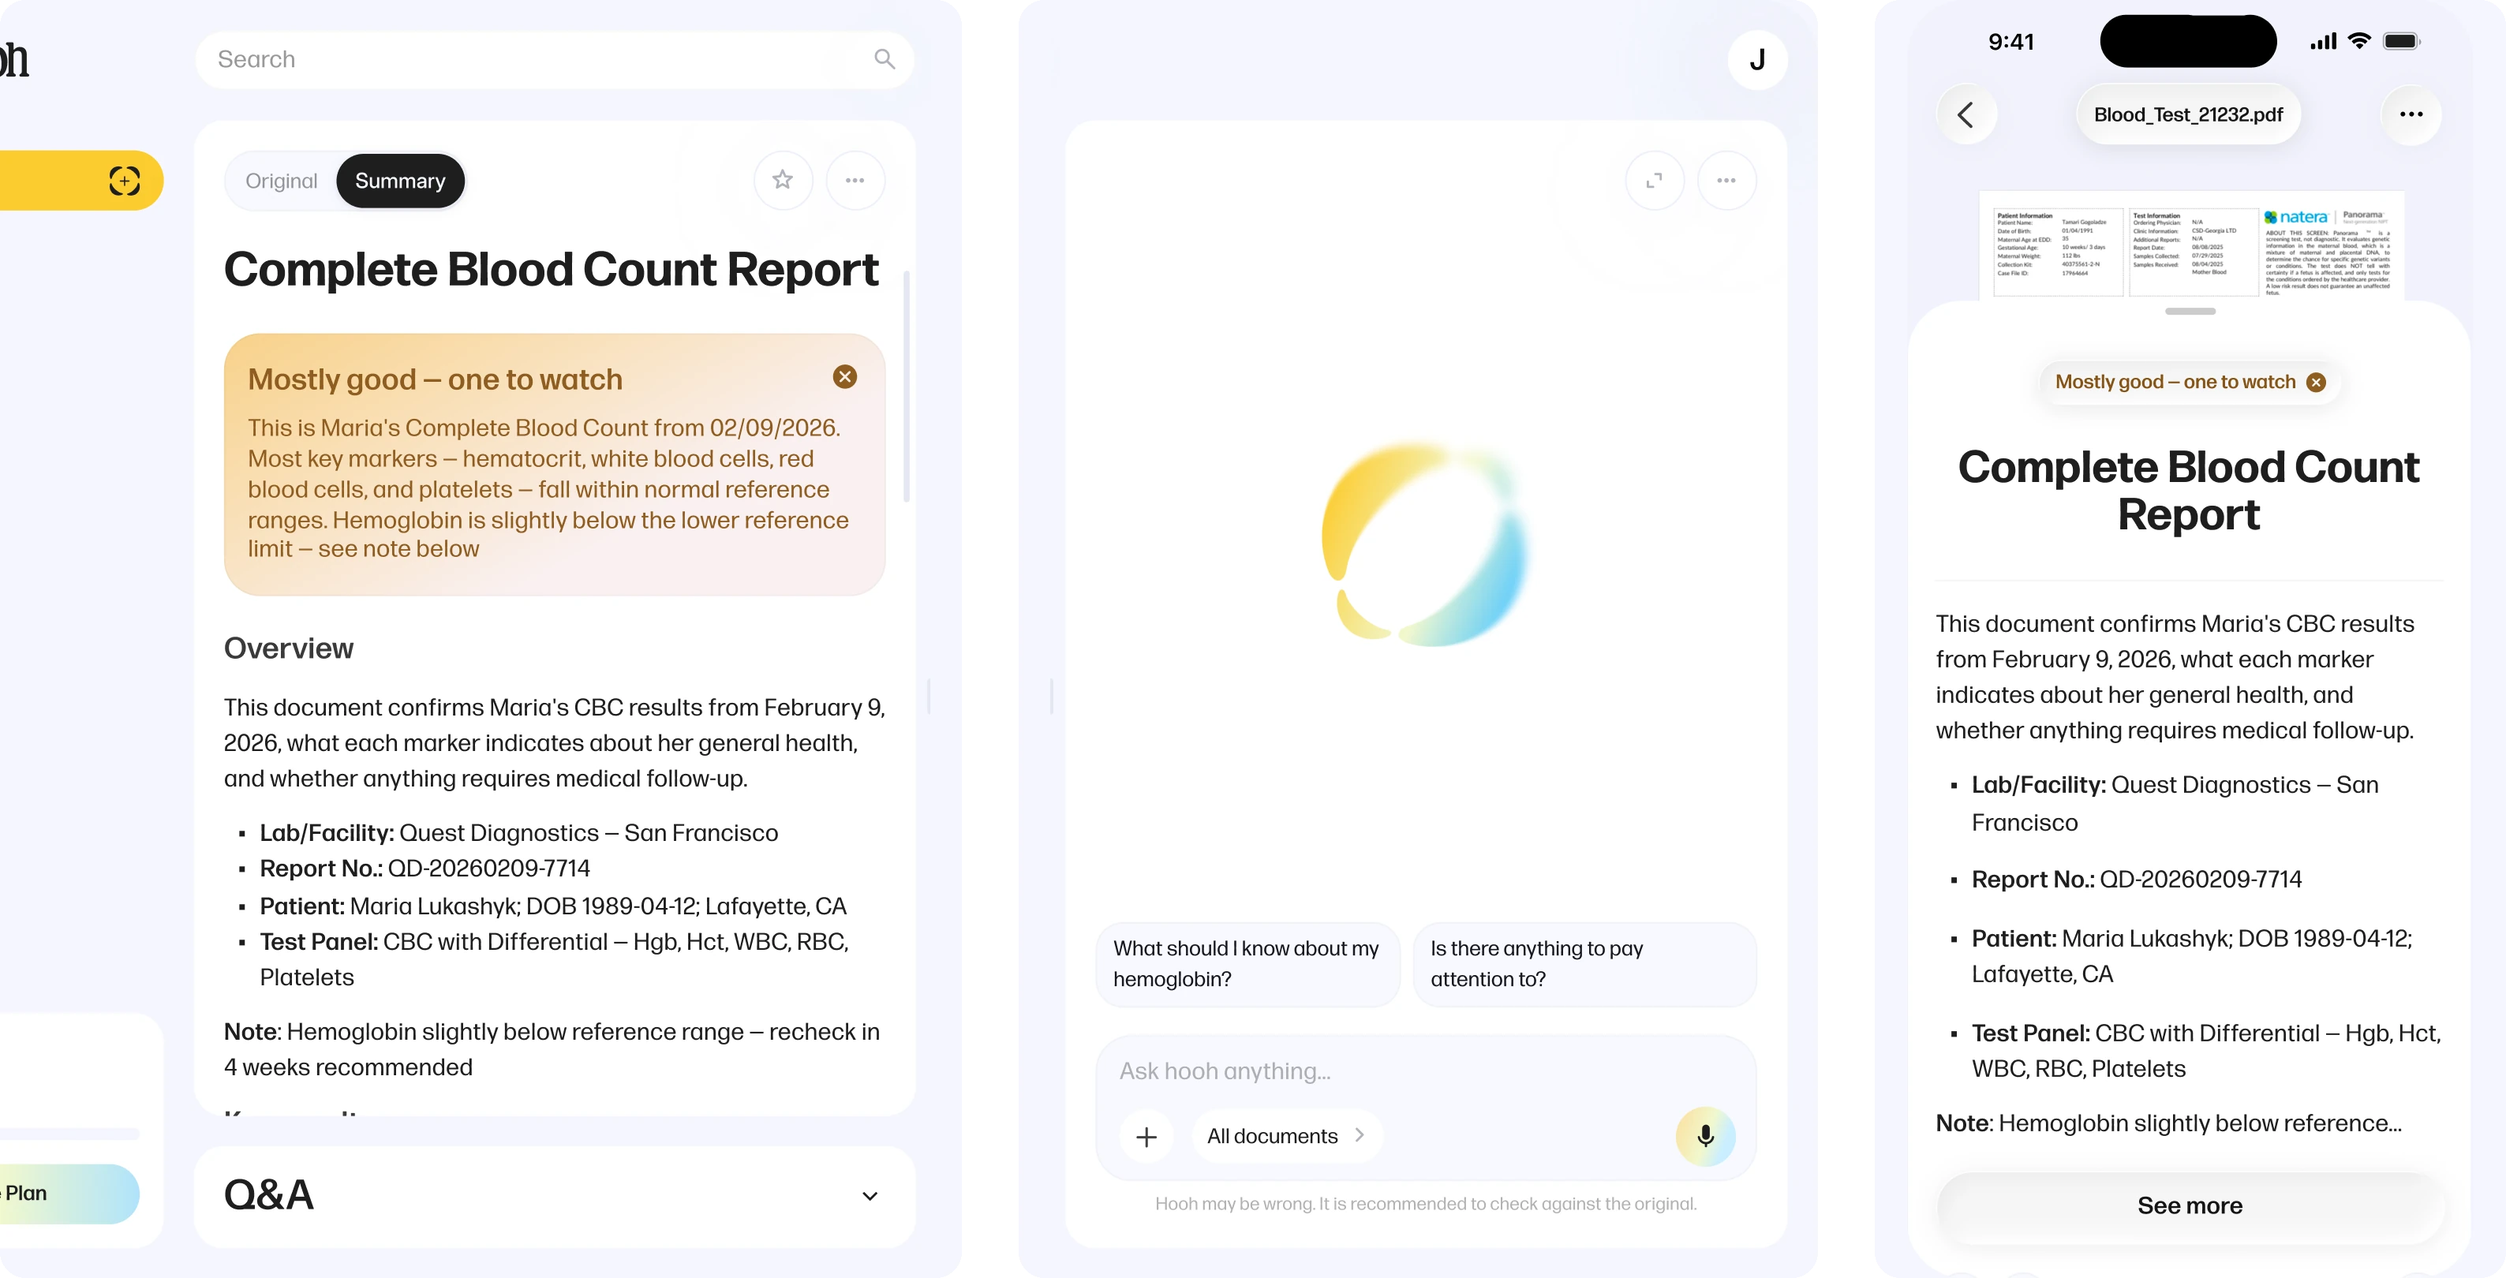
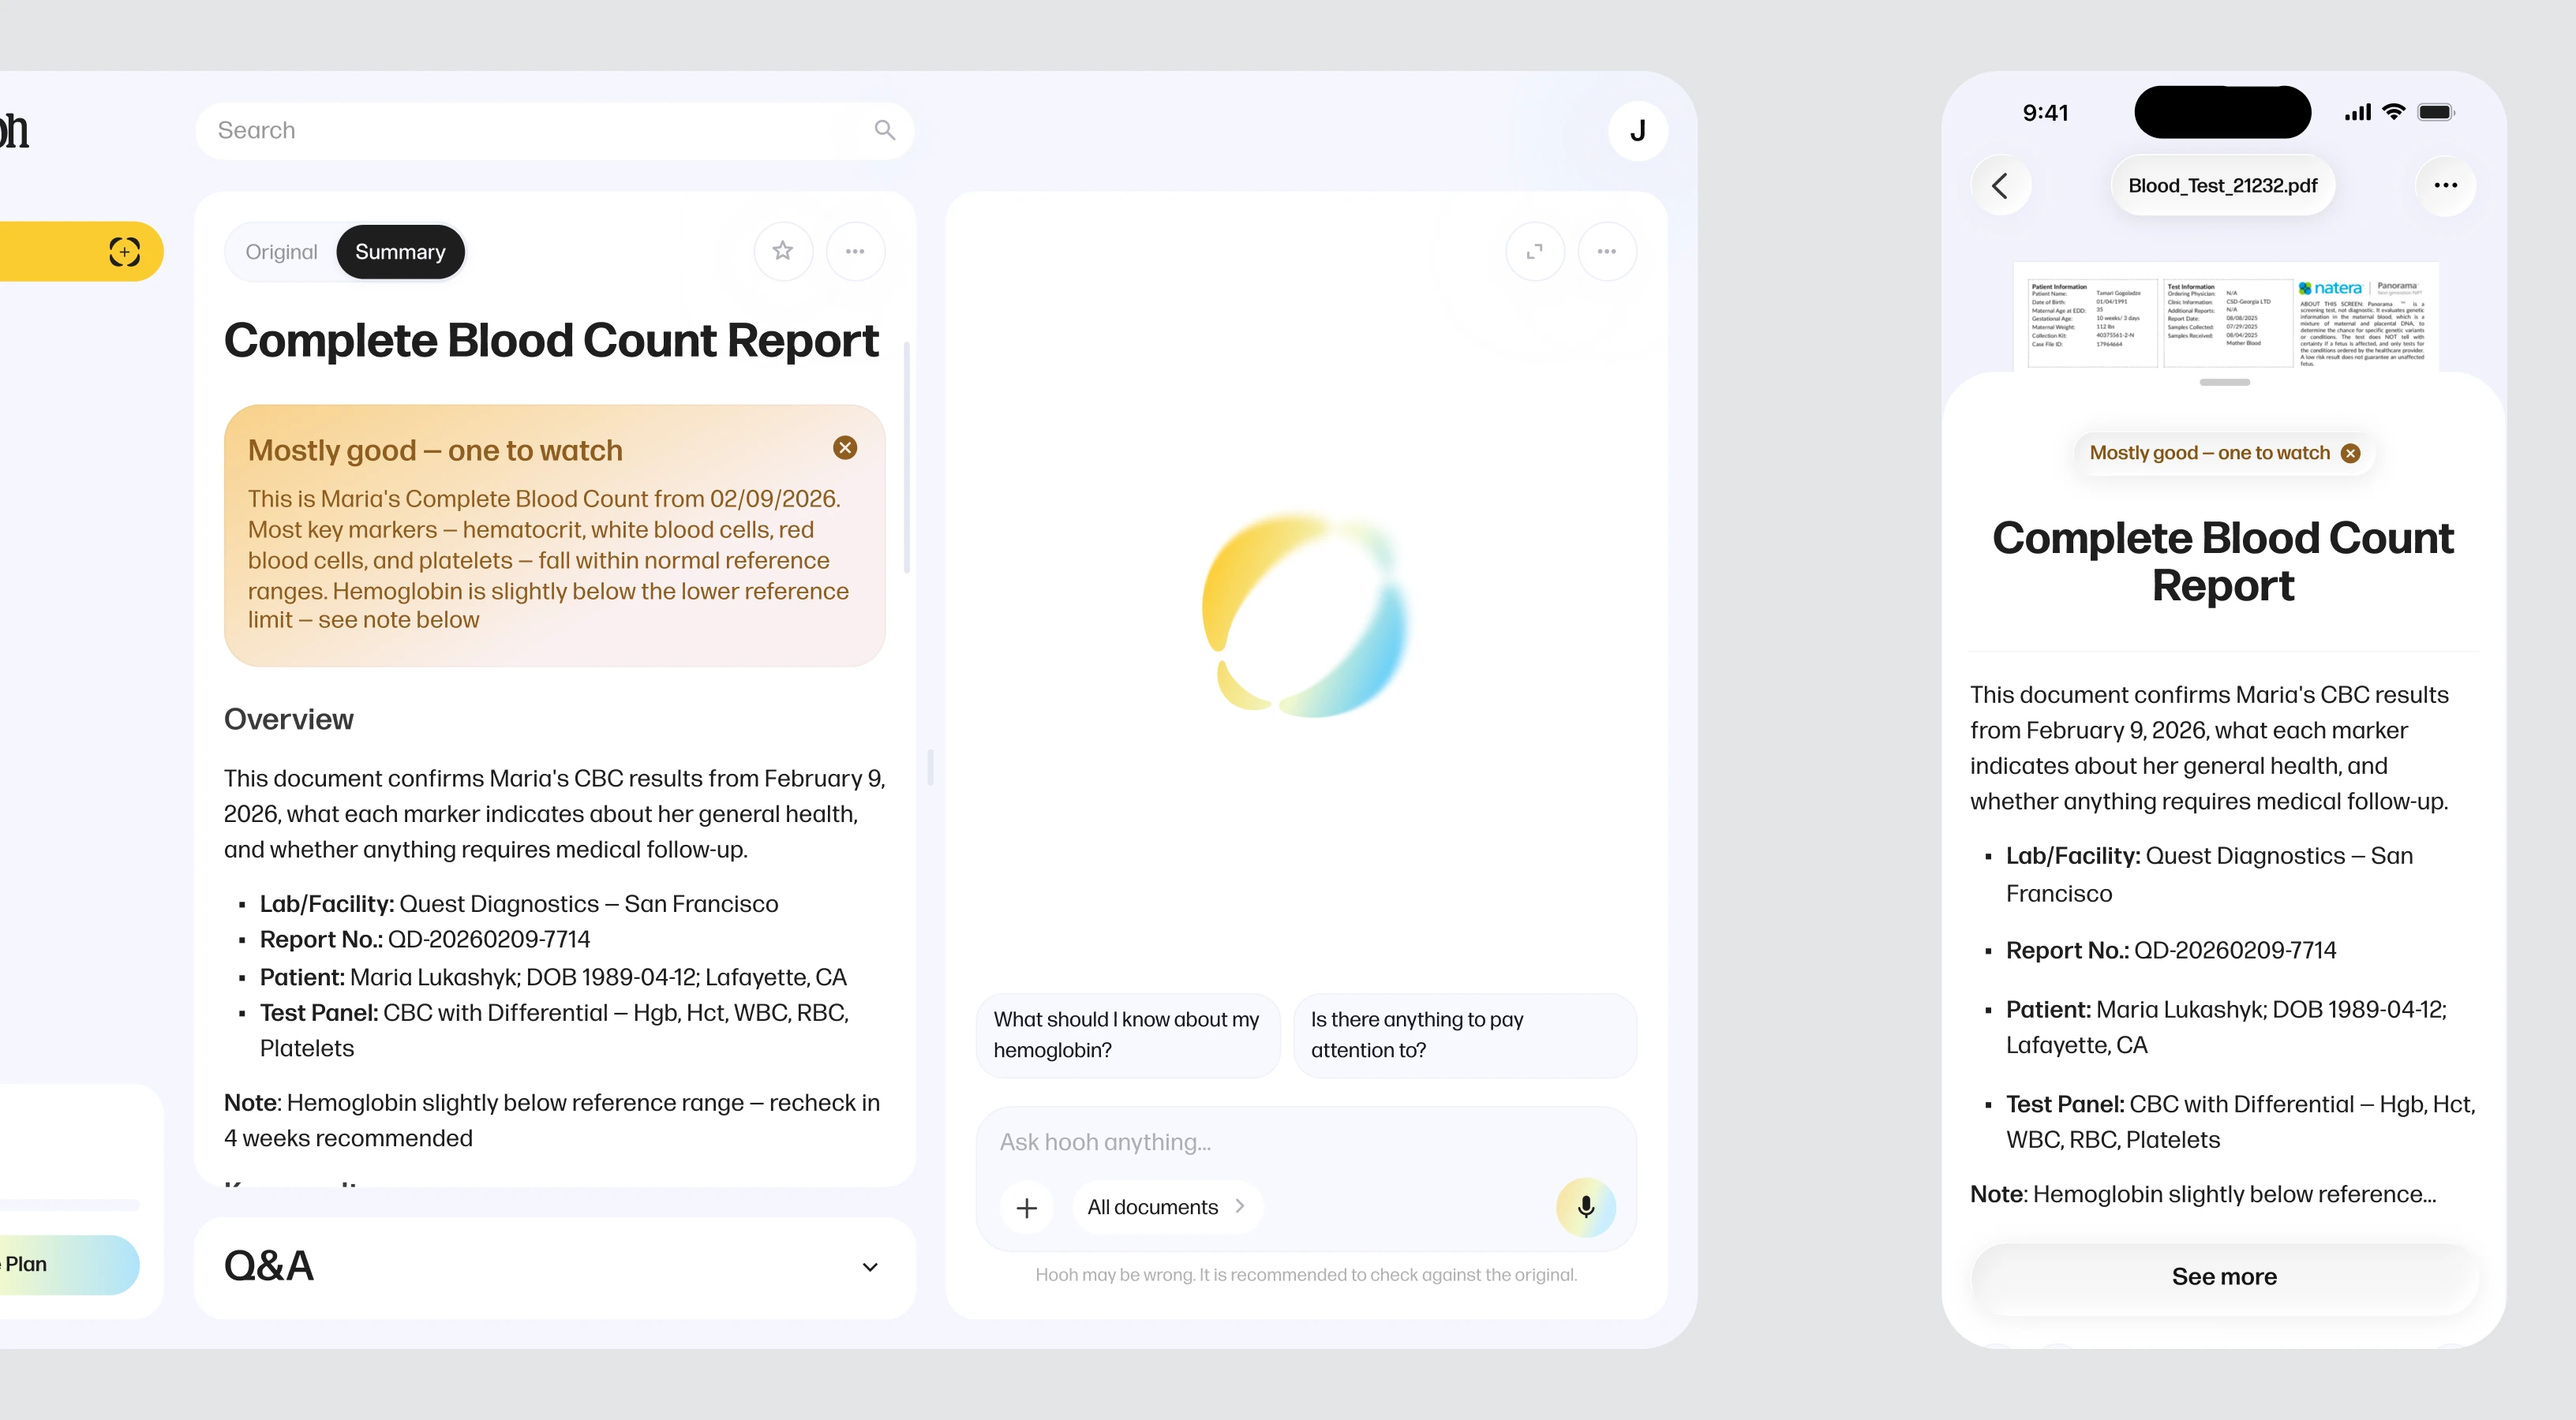
Hooh uxC + chatC: swap in fresh Figma exports with built-in plate gaps
The new exports already ship three (uxC) and two (chatC) lavender
plates separated by transparent gaps, so just drop them in directly.

diff --git a/hooh.html b/hooh.html
@@ -137,7 +137,7 @@
         </figure>
 
         <figure class="case__figure">
-          <picture><img src="assets/case-uxC.webp?v=10" alt="Desktop view of a Complete Blood Count Report with a Mostly good summary callout, a contextual Q&amp;A chat panel with the Hooh assistant, and an iOS Summary screen showing the same report" loading="lazy"></picture>
+          <picture><img src="assets/case-uxC.webp?v=11" alt="Desktop view of a Complete Blood Count Report with a Mostly good summary callout, a contextual Q&amp;A chat panel with the Hooh assistant, and an iOS Summary screen showing the same report" loading="lazy"></picture>
           <figcaption>Users can move from a quick snapshot to a detailed summary and contextual Q&amp;A without reading the full file line by line</figcaption>
         </figure>
       </section>
@@ -165,7 +165,7 @@
         </figure>
 
         <figure class="case__figure">
-          <picture><img src="assets/case-chatC.webp" alt="Two desktop screens — a fresh assistant prompt and an in-progress chat about elevated white blood cells" loading="lazy"></picture>
+          <picture><img src="assets/case-chatC.webp?v=2" alt="Two desktop screens — a fresh Hooh Assistant prompt 'What would you like to explore?' and an in-progress chat about elevated white blood cells with follow-up suggestions" loading="lazy"></picture>
         </figure>
       </section>
 
